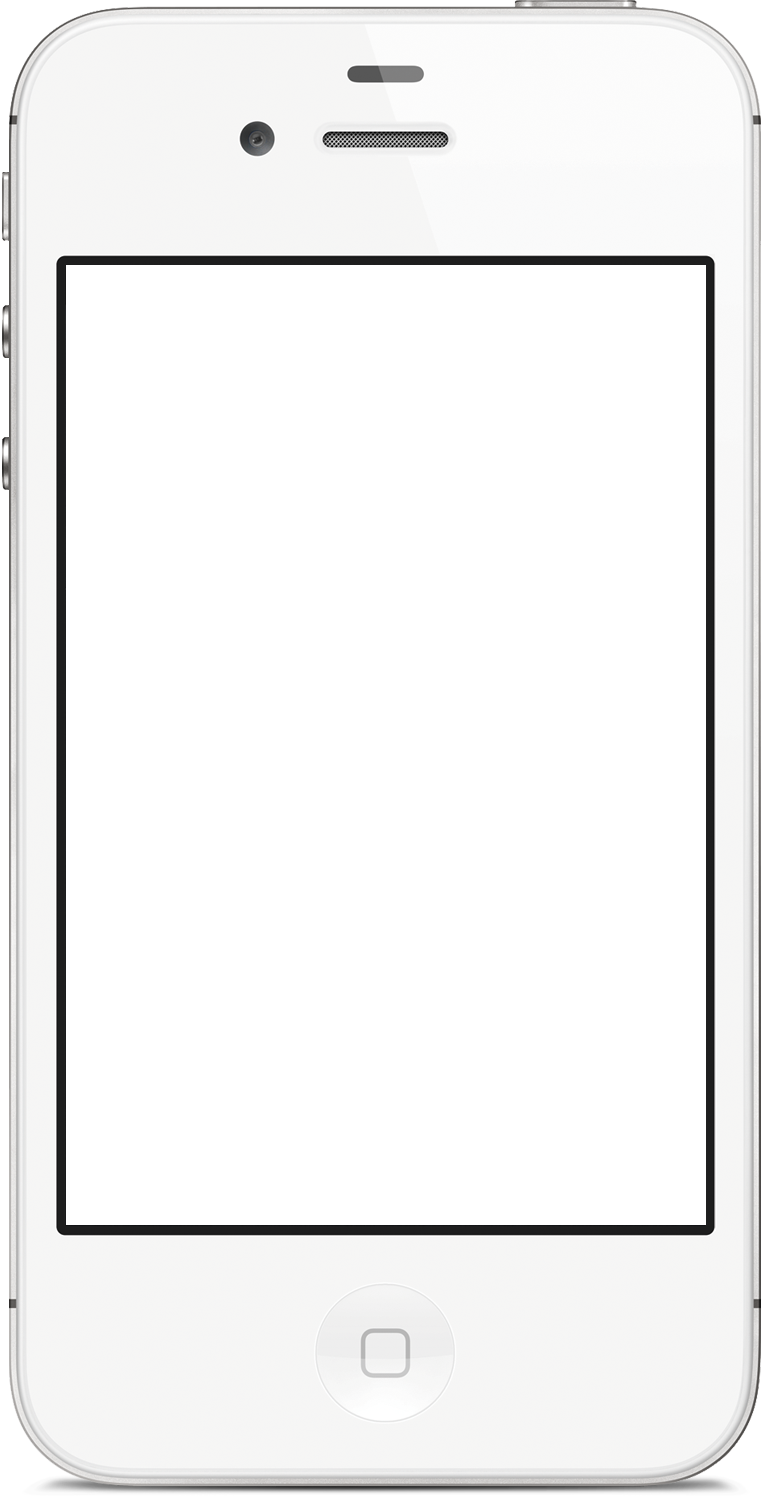
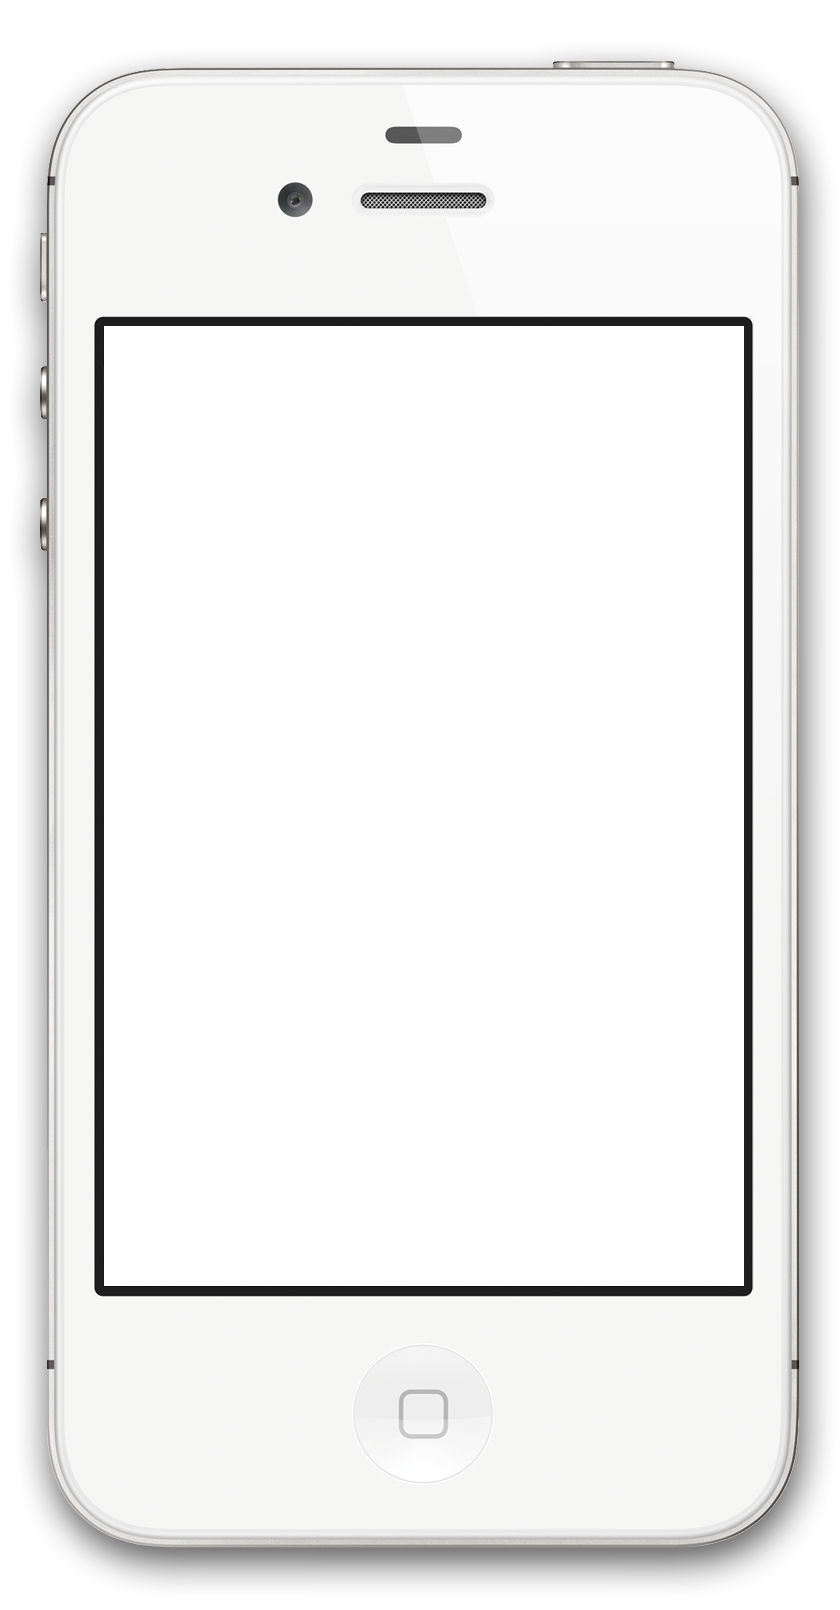
Add PC View

Changed region(s): [[0.0, 0.0, 0.9974, 1.0], [0.0623, 0.0, 0.2805, 0.0615], [0.4675, 0.861, 0.5299, 0.9225]]

diff --git a/style.css b/style.css
@@ -6,13 +6,17 @@ html,body {
   margin: 0;
   padding: 0;
   background:#999 url(images/bg.png) repeat 0 0;
-  -webkit-background-size:320px 480px;
-  -moz-background-size:320px 480px;
-  -o-background-size:320px 480px;
-  -ms-background-size:320px 480px;
-  background-size:320px 480px;
+  -webkit-background-size:100px 100px;
+  -moz-background-size:100px 100px;
+  -o-background-size:100px 100px;
+  -ms-background-size:100px 100px;
+  background-size:100px 100px;
   font-family:sans-serif;
   line-height:1.3;
+}
+body::-webkit-scrollbar {
+  width: 0px;
+  height: 0px;
 }
 h1,h2,h3,h4,h5,h6,p,ul,ol {
   margin:10px 0;
@@ -66,14 +70,15 @@ a {
 /* ******************************** Layout ******************************** */
 #wrapper {
   position:relative;
-  width:385px;
-  height:748px;
+  width:840px;
+  height:805px;
   margin:20px auto;
 }
 #iphone {
-  position:relative;
-  width:385px;
-  height:748px;
+  position:absolute;
+  left:420px;
+  width:420px;
+  height:805px;
   z-index:1;
 }
 #body {
@@ -82,11 +87,11 @@ a {
   width:320px;
   height:480px;
   background:#999 url(images/bg.png) repeat 0 0;
-  -webkit-background-size:320px 480px;
-  -moz-background-size:320px 480px;
-  -o-background-size:320px 480px;
-  -ms-background-size:320px 480px;
-  background-size:320px 480px;
+  -webkit-background-size:100px 100px;
+  -moz-background-size:100px 100px;
+  -o-background-size:100px 100px;
+  -ms-background-size:100px 100px;
+  background-size:100px 100px;
   -webkit-backface-visibility: hidden;
   -webkit-transition:-webkit-transform 0.5s;
   z-index:2;
@@ -139,8 +144,8 @@ a {
 #display {
   position:absolute;
   overflow:hidden;
-  top:133px;
-  left:33px;
+  top:163px;
+  left:472px;
   width:320px;
   height:480px;
   -webkit-transform-style: preserve-3d;
@@ -620,7 +625,7 @@ input[type='range']::-webkit-slider-thumb {
 }
 
 /* ******************************** iPhone ******************************** */
-@media (max-width: 480px){
+@media (max-width: 800px){
   html,body {
     display:-webkit-box;
     height:100%;
@@ -655,3 +660,195 @@ input[type='range']::-webkit-slider-thumb {
     -webkit-box-flex: 1;
   }
 }
+
+/* ******************************** PC ******************************** */
+#pc {
+  position:absolute;
+  top:100px;
+  left:0;
+  width:380px;
+  color:#fff;
+}
+#pc-text {
+  margin:30px 0;
+  font-size:24px;
+  text-shadow:0 -2px 0 rgba(0,0,0,0.4);
+}
+#video {
+  display:block;
+  float:left;
+  width:198px;
+  text-align:center;
+}
+#video span {
+  display:block;
+  font-size:12px;
+  line-height:1;
+  color:#aaa;
+}
+#features {
+  margin-left:210px;
+  padding:0;
+  font-weight:bold;
+  text-shadow:0 -2px 0 rgba(0,0,0,0.4);
+}
+#features li {
+  margin:8px 0;
+  padding-top:2px;
+}
+#features li:before {
+  content:'+';
+  margin-right:6px;
+}
+#pc .profile {
+  clear:both;
+  position:relative;
+  margin-top:60px;
+  border:1px solid #111;
+  padding:23px;
+  opacity:0.5;
+  -webkit-border-radius:10px;
+  -moz-border-radius:10px;
+  -ms-border-radius:10px;
+  -o-border-radius:10px;
+  border-radius:10px;
+  -webkit-transition:0.3s;
+  -moz-transition:0.3s;
+  -ms-transition:0.3s;
+  -o-transition:0.3s;
+  transition:0.3s;
+  -webkit-box-shadow:inset 0 1px 1px rgba(255,255,255,0.3), 0 1px 1px rgba(255,255,255,0.3), inset 0 0 7px rgba(0,0,0,0.5);
+  -moz-box-shadow:inset 0 1px 1px rgba(255,255,255,0.3), 0 1px 1px rgba(255,255,255,0.3), inset 0 0 7px rgba(0,0,0,0.5);
+  -ms-box-shadow:inset 0 1px 1px rgba(255,255,255,0.3), 0 1px 1px rgba(255,255,255,0.3), inset 0 0 7px rgba(0,0,0,0.5);
+  -o-box-shadow:inset 0 1px 1px rgba(255,255,255,0.3), 0 1px 1px rgba(255,255,255,0.3), inset 0 0 7px rgba(0,0,0,0.5);
+  box-shadow:inset 0 1px 1px rgba(255,255,255,0.3), 0 1px 1px rgba(255,255,255,0.3), inset 0 0 7px rgba(0,0,0,0.5);
+}
+#pc .profile:hover {
+  opacity:1;
+}
+#pc .profile-image {
+  float:left;
+  width:40px;
+  -webkit-border-radius:3px;
+  -moz-border-radius:3px;
+  -ms-border-radius:3px;
+  -o-border-radius:3px;
+  border-radius:3px;
+}
+#pc .profile-name {
+  margin:2px 0 0 50px;
+  font-size:18px;
+}
+#pc .profile-name span {
+  display:block;
+  font-size:14px;
+  color:#aaa;
+}
+#pc .profile-acount,
+#pc .profile-acount a:after {
+  font-family: 'LigatureSymbols';
+  -webkit-text-rendering: optimizeLegibility;
+  -moz-text-rendering: optimizeLegibility;
+  -ms-text-rendering: optimizeLegibility;
+  -o-text-rendering: optimizeLegibility;
+  text-rendering: optimizeLegibility;
+  -webkit-font-smoothing: antialiased;
+  -moz-font-smoothing: antialiased;
+  -ms-font-smoothing: antialiased;
+  -o-font-smoothing: antialiased;
+  font-smoothing: antialiased;
+  -webkit-font-feature-settings: "liga" 1, "dlig" 1;
+  -moz-font-feature-settings: "liga=1, dlig=1";
+  -ms-font-feature-settings: "liga" 1, "dlig" 1;
+  -o-font-feature-settings: "liga" 1, "dlig" 1;
+  font-feature-settings: "liga" 1, "dlig" 1;
+}
+#pc .profile-acount {
+  position:absolute;
+  top:17px;
+  right:25px;
+  font-size:20px;
+  line-height:1;
+}
+#pc .profile-acount a {
+  position:relative;
+  display:inline-block;
+  width:20px;
+  color:#666;
+  text-indent:-10000px;
+  -webkit-transition:0.3s;
+  -moz-transition:0.3s;
+  -ms-transition:0.3s;
+  -o-transition:0.3s;
+  transition:0.3s;
+}
+#pc .profile-acount a:hover {
+  color:#fff;
+}
+#pc .profile-acount a:after {
+  content:' ';
+  position:absolute;
+  right:0;
+  text-indent:0px;
+}
+#pc .profile-acount .twitter:after {content:'';}
+#pc .profile-acount .dribbble:after {content:'';}
+#pc .profile-acount .github:after {content:'';}
+
+#pc .profile-text {
+  margin:15px 0;
+  font-size:13px;
+  line-height:1.5;
+}
+#pc .copyright {
+  margin:20px 0 0;
+  color:#aaa;
+  text-align:center;
+  font-size:12px;
+}
+
+/* ******************************** Start ******************************** */
+#display,
+#iphone {
+  -webkit-transition:0.6s;
+  -moz-transition:0.6s;
+  -ms-transition:0.6s;
+  -o-transition:0.6s;
+  transition:0.6s;
+}
+#wrapper.start #display,
+#wrapper.start #iphone {
+  opacity:0;
+  -webkit-transform:translateY(70px);
+  -moz-transform:translateY(70px);
+  -ms-transform:translateY(70px);
+  -o-transform:translateY(70px);
+  transform:translateY(70px);
+  -webkit-transition:0s;
+  -moz-transition:0s;
+  -ms-transition:0s;
+  -o-transition:0s;
+  transition:0s;
+}
+#pc {
+  -webkit-transition:0.3s 0.3s;
+  -moz-transition:0.3s 0.3s;
+  -ms-transition:0.3s 0.3s;
+  -o-transition:0.3s 0.3s;
+  transition:0.3s 0.3s;
+}
+#wrapper.start #pc {
+  opacity:0;
+  -webkit-transform:translateX(100px);
+  -moz-transform:translateX(100px);
+  -ms-transform:translateX(100px);
+  -o-transform:translateX(100px);
+  transform:translateX(100px);
+  -webkit-transition:0s;
+  -moz-transition:0s;
+  -ms-transition:0s;
+  -o-transition:0s;
+  transition:0s;
+}
+
+

diff --git a/photoeditor.js b/photoeditor.js
@@ -44,6 +44,15 @@ if ((navigator.userAgent.indexOf('iPhone') > 0 && navigator.userAgent.indexOf('i
 
 ///////////////////////////////////////////////////////// Bind Evnet
 $(function(){
+  
+  if(!pe.mobile){
+    $('#wrapper').addClass('start').append('<img src="images/iphone.png" id="iphone">');
+    $('#wrapper').append('<div id="pc"><img src="images/logo.png" id="pc-logo"><p id="pc-text">CSS PhotoEditor is a test site for new features that will be installed in iOS6.</p><a href="#" onclick="alert(\'show video\');" id="video"><img src="images/video.png"><span>DEMO on iOS simulator</span></a><ul id="features"><li class="upload">Input type=file</li><li class="filter">CSS Filters</li><li class="slider">Custom Slider UI</li><li class="font">Ligature Symbols</li></ul><div class="profile"><a href="http://d.hatena.ne.jp/kudakurage/"><img src="images/profile.png" class="profile-image"></a><p class="profile-name">Kazuyuki Motoyama<span>Kudakurage</span></p><p class="profile-acount"><a href="https://twitter.com/kudakurage" class="twitter">twitter</a><a href="http://dribbble.com/kudakurage" class="dribbble">dribbble</a><a href="https://github.com/kudakurage" class="github">github</a></p><p class="profile-text">I have been working as a Web designer in Kyoto.<br />UI Design / App Design / Illustration / HTML5&CSS3 / Javascript / PHP</p><p class="copyright">Copyright &copy; 2012 kazuyuki motoyama</p></div></div>');
+    pe.startViewWrapper = setTimeout(function(){
+      $('#wrapper').removeClass('start');
+    }, 600);
+  }
+  
   $('#footer a').click(function(){
     pe.sliderReset(this);
     pe.menuSelected(this);
@@ -102,6 +111,10 @@ $(function(){
     }, 'json');
   });
   
+  //StartView
+  pe.startView = setTimeout(function(){
+    pe.menuSelected($('#saturate'));
+  }, 1600);
 });
 
 ///////////////////////////////////////////////////////// Function

diff --git a/index.html b/index.html
@@ -79,9 +79,30 @@
         </div>
         <footer>Copyright &copy; 2012 kazuyuki motoyama</footer>
       </div>
+    </div><!-- #info-body -->
+  </div><!-- #display -->
+  <!--div id="pc">
+    <img src="images/logo.png" id="pc-logo">
+    <p id="pc-text">CSS PhotoEditor is a test site for new features that will be installed in iOS6.</p>
+    <a href="#" onclick="alert('show video');" id="video"><img src="images/video.png"><span>DEMO on iOS simulator</span></a>
+    <ul id="features">
+      <li class="upload">Input type=file</li>
+      <li class="filter">CSS Filters</li>
+      <li class="slider">Custom Slider UI</li>
+      <li class="font">Ligature Symbols</li>
+    </ul>
+    <div class="profile">
+      <a href="http://d.hatena.ne.jp/kudakurage/"><img src="images/profile.png" class="profile-image"></a>
+      <p class="profile-name">Kazuyuki Motoyama<span>Kudakurage</span></p>
+      <p class="profile-acount">
+        <a href="https://twitter.com/kudakurage" class="twitter">twitter</a>
+        <a href="http://dribbble.com/kudakurage" class="dribbble">dribbble</a>
+        <a href="https://github.com/kudakurage" class="github">github</a>
+      </p>
+      <p class="profile-text">I have been working as a Web designer in Kyoto.<br />UI Design / App Design / Illustration / HTML5&CSS3 / Javascript / PHP</p>
+      <p class="copyright">Copyright &copy; 2012 kazuyuki motoyama</p>
     </div>
-  </div>
-  <img src="images/iphone.png" id="iphone">
-</div>
+  </div-->
+</div><!-- #wrapper -->
 </body>
 </html>
